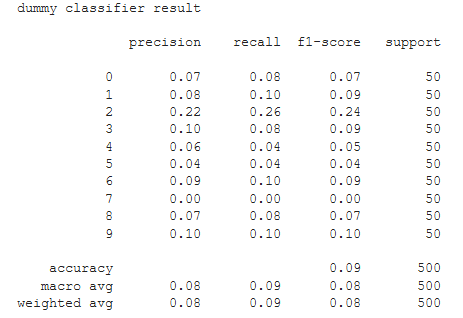
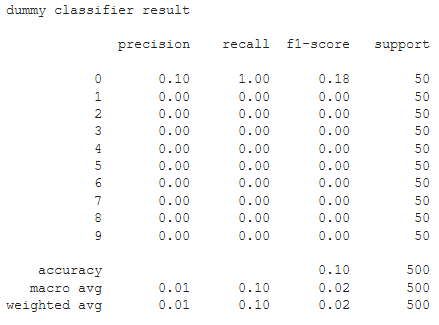
update dummyclassifier

diff --git a/README.md b/README.md
@@ -10,9 +10,9 @@ Result using resnet18 to classify Imagewoof dataset (accuracy:0.3)
 <img src="Result.PNG" width="300px">
 <br>
 <br>
-Result of DummyClassifier (accuracy:0.09)
+Result of DummyClassifier using "most_frequent" (accuracy:0.09)
 <br>
-<img src="Result.PNG" width="300px">
+<img src="DummyClassifier.PNG" width="300px">
 <br>
 <br>
 References: https://www.kaggle.com/pintu161/transfer-learning-in-pytorch-using-resnet18
